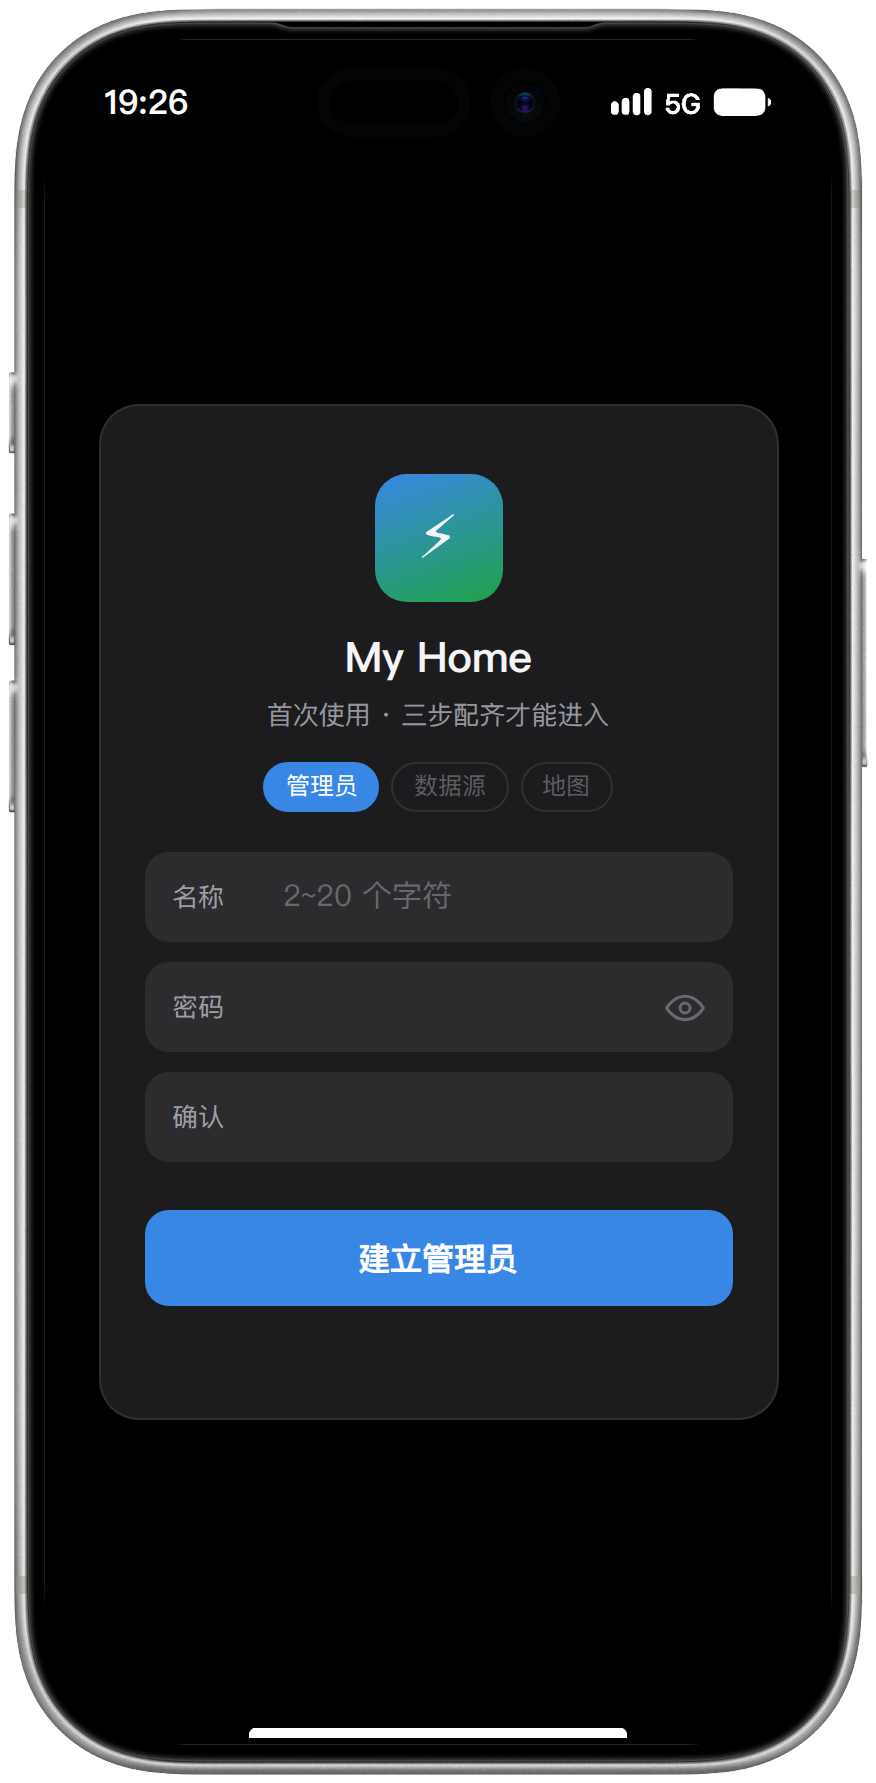
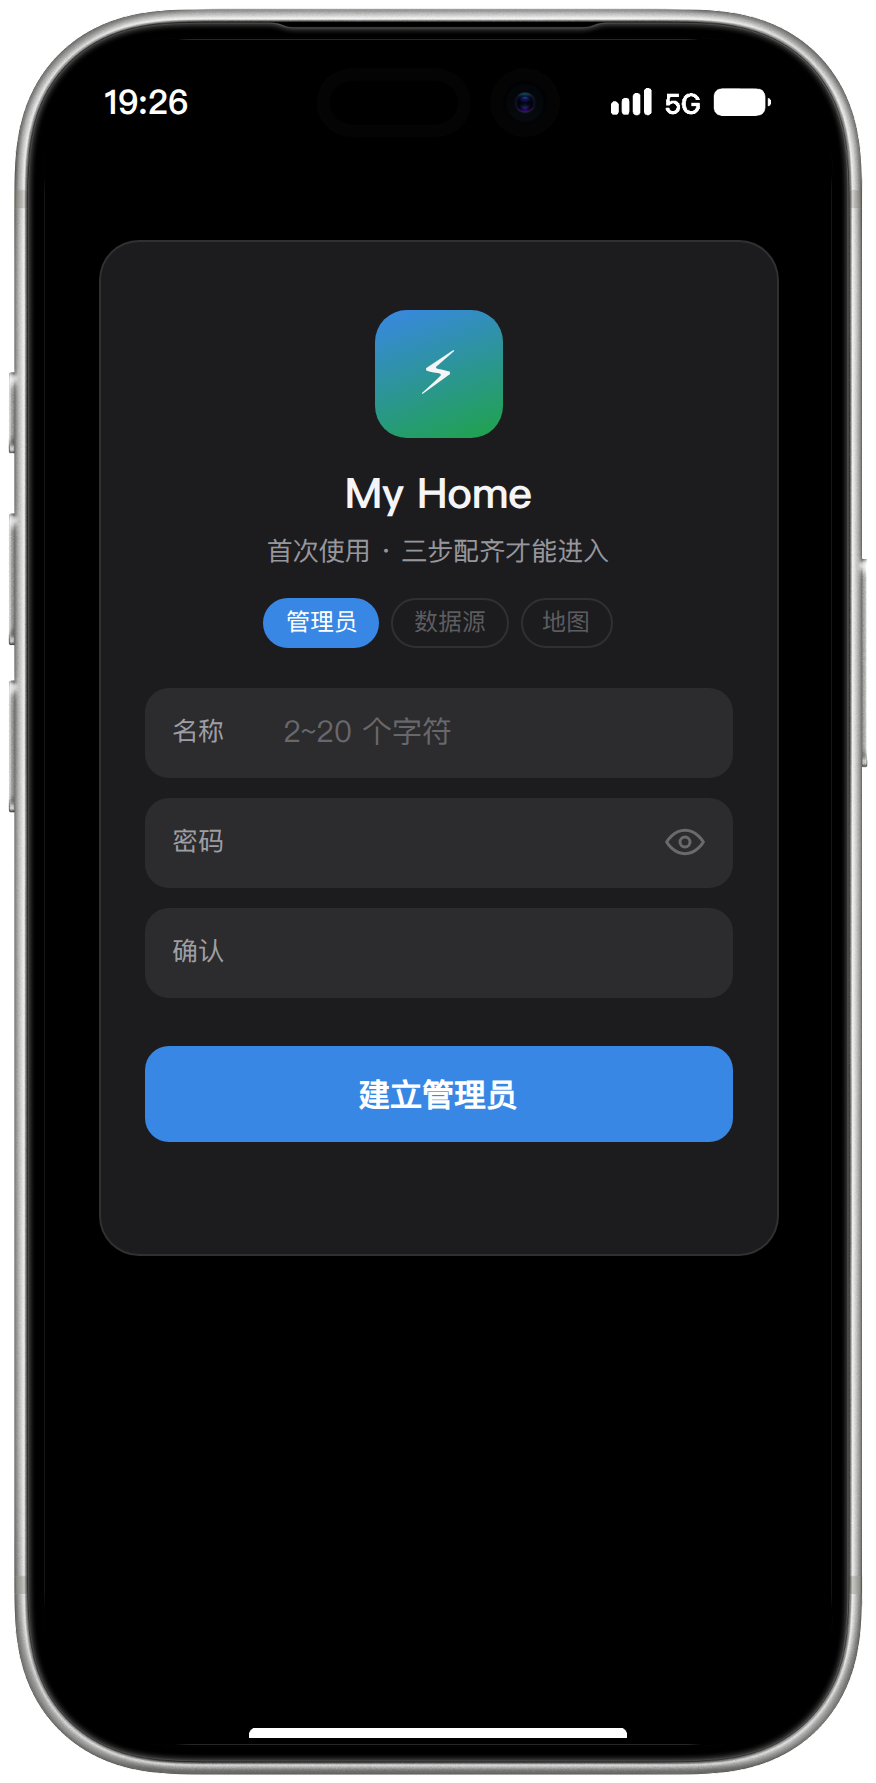
引导页与子仓同批: 卡片顶端对齐 (三步高矮不一, 垂直居中切步会跳版、三张步页顶端参差; 顶对齐后图标/标题/步骤条钉在同一高度, 矮屏溢出改为向下可滚) + 第三步按钮写明「保存并进入应用」, 引导截图按新口径重拍; 子仓指针: my-tesla 105c6e7 (门厅品牌统一成 Tesla T + 向导顶对齐 + 架构图重画, 3.7.2)

diff --git a/app/home/static/css/setup-page.css b/app/home/static/css/setup-page.css
@@ -1,4 +1,6 @@
-/* setup-page — 首启引导页样式 (register 页为底 + 步骤条/提示/完成)。 */
+/* setup-page — 首启引导页样式 (register 页为底 + 步骤条/提示/完成)。
+   与子仓同名文件 2026-10-09 起品牌分家: 两仓同款「卡片顶端对齐」,
+   图标底色各走各的 (本仓蓝绿渐变, my-tesla 仓 Tesla 红)。 */
 :root {
   color-scheme: dark;
   --bg: #000;
@@ -18,8 +20,11 @@ body {
   background: var(--bg); color: var(--ink-1);
   font-family: -apple-system, BlinkMacSystemFont, "SF Pro Text", "PingFang SC",
                "Helvetica Neue", system-ui, sans-serif;
-  font-size: 15px; display: flex; align-items: center; justify-content: center;
-  padding: env(safe-area-inset-top) 24px env(safe-area-inset-bottom);
+  font-size: 15px; display: flex; align-items: flex-start; justify-content: center;
+  /* 顶端对齐 (2026-10-09): 三张步页高矮不一, 垂直居中会让卡片随步骤上下
+     跳; 顶对齐后图标/标题/步骤条钉在同一高度, 矮屏溢出也改为向下可滚
+     (居中溢出会裁掉顶上且滚不回来) */
+  padding: max(env(safe-area-inset-top), 6vh) 24px env(safe-area-inset-bottom);
 }
 .card {
   width: 100%; max-width: 340px;

diff --git a/app/home/static/setup.html b/app/home/static/setup.html
@@ -15,7 +15,7 @@
 <link rel="apple-touch-icon" href="/static/apple-touch-icon.png?v=1">
 <link rel="manifest" href="/static/manifest.json">
   <title>初始化 · My Home</title>
-<link rel="stylesheet" href="/static/css/setup-page.css?v=2">
+<link rel="stylesheet" href="/static/css/setup-page.css?v=3">
 </head>
 <body data-done="/music">
 <script src="/static/no-zoom.js?v=2"></script>
@@ -101,7 +101,7 @@
       <input id="amap-code" type="text" autocapitalize="off" autocorrect="off"
              placeholder="未设置">
     </div>
-    <button class="btn" type="submit">保存</button>
+    <button class="btn" type="submit">保存并进入应用</button>
     <div class="err"></div>
   </form>
   <div class="done" id="done" hidden>

diff --git a/tests/test_setup_wizard.py b/tests/test_setup_wizard.py
@@ -186,6 +186,7 @@ def test_setup_page_standards(  # pylint: disable=redefined-outer-name
     assert "[hidden] { display: none !important; }" in css
     assert "touch-action: manipulation" in css
     assert "touch-action: pan-y" in css
+    assert "align-items: flex-start" in css   # 三张步页顶端对齐, 切步不跳版
 
 
 def test_setup_page_wiring(  # pylint: disable=redefined-outer-name
@@ -200,6 +201,8 @@ def test_setup_page_wiring(  # pylint: disable=redefined-outer-name
     assert "btn-plain" not in html
     assert re.search(r'id="tm-host"[^>]*required', html)
     assert re.search(r'id="amap-key"[^>]*required', html)
+    # 第三步是收尾步: 按钮写明存完即进应用 (2026-10-09 用户口径)
+    assert "保存并进入应用" in html
     js = client.get("/static/setup.js?v=2").text
     assert '"/api/setup-admin"' in js
     assert '"/tesla/api/settings"' in js
